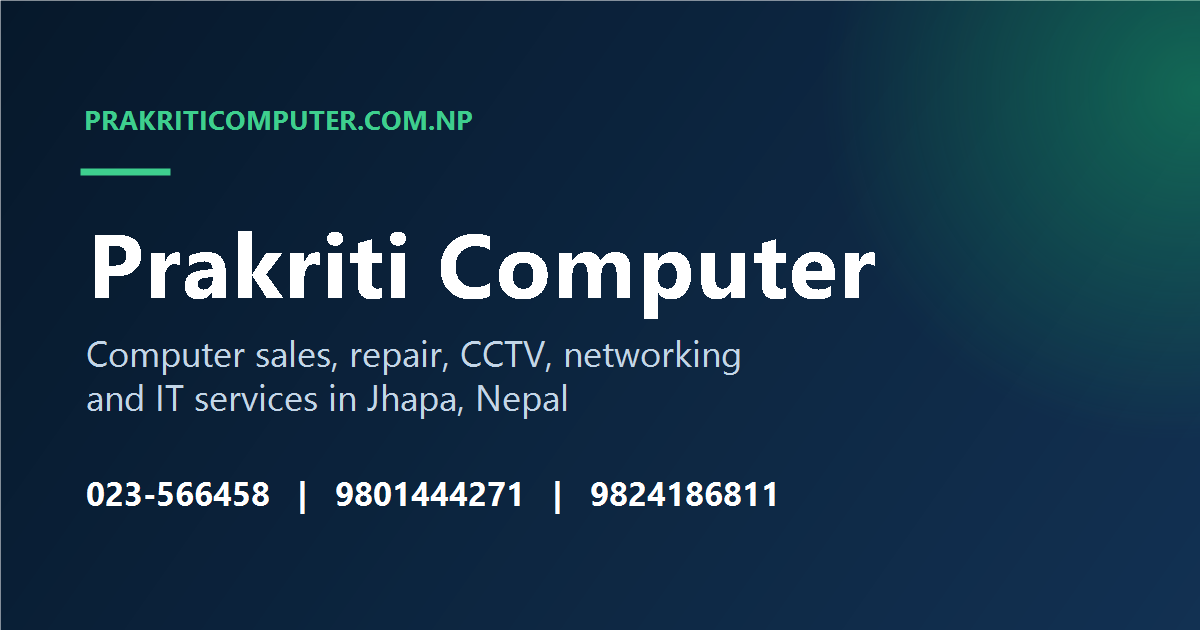
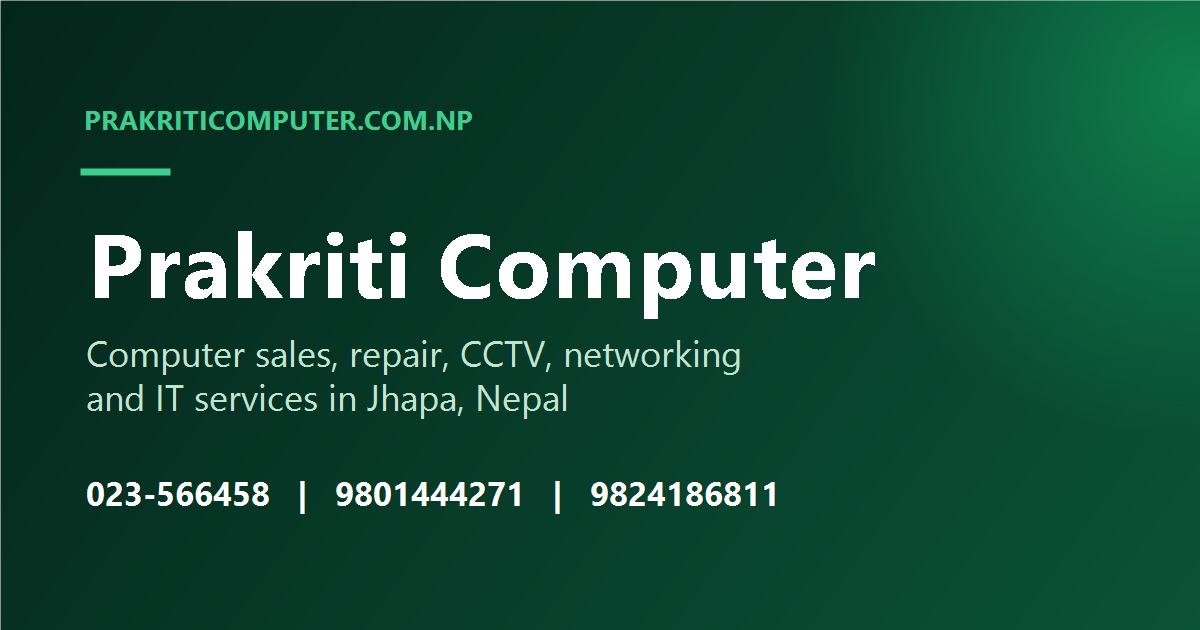
Switch the site to a green theme
"Prakriti" means nature, so the palette is now green throughout rather
than navy with green accents.

- Renamed the --navy-* scale to --forest-* and gave it deep forest
  values, so the variable names match the colours they hold. This
  recolours the hero, page headers, footer, panels and brand mark.
- Tinted the light and dark neutrals green so surfaces, borders and
  body text sit in the same family instead of reading as cold grey.
- Replaced the leftover blue radial glow in the hero with teal.
- Added --green-700 (#0b854a) as the light-theme accent. The previous
  --green-600 gave only 3.5:1 contrast against white, below the WCAG AA
  4.5:1 needed for button and link text; --green-700 reaches 4.7:1.
- Regenerated the favicon and social share image to match.

Changed region(s): [[0.4008, 0.1508, 1.0, 1.0]]

diff --git a/assets/css/style.css b/assets/css/style.css
@@ -17,36 +17,41 @@
    1. Design tokens
    -------------------------------------------------------------------------- */
 :root {
-  /* Brand palette — deep navy + "prakriti" (nature) green */
-  --navy-900: #06182b;
-  --navy-800: #0b2540;
-  --navy-700: #123152;
-  --navy-600: #1b4570;
+  /* Brand palette — "prakriti" means nature, so the whole site is green.
+     forest-*  deep greens for dark surfaces (hero, footer, panels)
+     green-*   vivid greens for accents (buttons, links, icons)
+     --green-700 is the one used for text and buttons on white: it clears
+     the WCAG AA 4.5:1 contrast ratio, which --green-600 does not. */
+  --forest-900: #04251a;
+  --forest-800: #073a28;
+  --forest-700: #0a5238;
+  --forest-600: #0e6b4a;
+  --green-700: #0b854a;
   --green-600: #0f9d58;
   --green-500: #16b364;
   --green-400: #3ecf8e;
 
   /* Semantic — light theme */
   --bg: #ffffff;
-  --bg-soft: #f5f8fb;
-  --bg-sunken: #eef3f8;
+  --bg-soft: #f3faf6;
+  --bg-sunken: #e9f4ee;
   --surface: #ffffff;
-  --surface-2: #f8fafc;
-  --border: #e2e8f0;
-  --border-strong: #cbd5e1;
-  --text: #0f2033;
-  --text-muted: #51677e;
-  --text-faint: #7b8ea5;
-  --brand: var(--navy-800);
-  --accent: var(--green-600);
-  --accent-soft: #e6f7ee;
-  --ring: rgba(15, 157, 88, 0.32);
+  --surface-2: #f7fcf9;
+  --border: #dcebe3;
+  --border-strong: #b9d8c8;
+  --text: #0c2a1e;
+  --text-muted: #4a6b5c;
+  --text-faint: #789987;
+  --brand: var(--forest-800);
+  --accent: var(--green-700);
+  --accent-soft: #e3f6ec;
+  --ring: rgba(11, 133, 74, 0.3);
 
   /* Elevation */
-  --shadow-xs: 0 1px 2px rgba(6, 24, 43, 0.06);
-  --shadow-sm: 0 2px 8px rgba(6, 24, 43, 0.07);
-  --shadow-md: 0 8px 24px rgba(6, 24, 43, 0.09);
-  --shadow-lg: 0 20px 48px rgba(6, 24, 43, 0.14);
+  --shadow-xs: 0 1px 2px rgba(4, 37, 26, 0.06);
+  --shadow-sm: 0 2px 8px rgba(4, 37, 26, 0.08);
+  --shadow-md: 0 8px 24px rgba(4, 37, 26, 0.1);
+  --shadow-lg: 0 20px 48px rgba(4, 37, 26, 0.16);
 
   /* Shape & rhythm */
   --radius-sm: 8px;
@@ -67,17 +72,17 @@
 
 /* Dark theme — set by data-theme="dark" on <html> (see assets/js/main.js) */
 [data-theme="dark"] {
-  --bg: #071624;
-  --bg-soft: #0b1f31;
-  --bg-sunken: #061421;
-  --surface: #0e2436;
-  --surface-2: #122b3f;
-  --border: #1d3b52;
-  --border-strong: #2a5070;
-  --text: #e8f1f8;
-  --text-muted: #a3bacd;
-  --text-faint: #7f99ae;
-  --brand: #0e2436;
+  --bg: #04180f;
+  --bg-soft: #072216;
+  --bg-sunken: #03140c;
+  --surface: #0a2718;
+  --surface-2: #0e3220;
+  --border: #17452e;
+  --border-strong: #235e41;
+  --text: #e6f5ec;
+  --text-muted: #a2c4b1;
+  --text-faint: #7ba38c;
+  --brand: #0a2718;
   --accent: var(--green-400);
   --accent-soft: rgba(62, 207, 142, 0.14);
   --ring: rgba(62, 207, 142, 0.38);
@@ -255,7 +260,7 @@ p { text-wrap: pretty; }
 
 .btn--light {
   --btn-bg: #fff;
-  --btn-fg: var(--navy-900);
+  --btn-fg: var(--forest-900);
   box-shadow: 0 6px 20px rgba(0, 0, 0, 0.18);
 }
 
@@ -281,7 +286,7 @@ p { text-wrap: pretty; }
    5. Header & navigation
    -------------------------------------------------------------------------- */
 .topbar {
-  background: var(--navy-900);
+  background: var(--forest-900);
   color: #cfe0ef;
   font-size: 0.82rem;
 }
@@ -353,7 +358,7 @@ p { text-wrap: pretty; }
   width: 42px; height: 42px;
   flex: none;
   border-radius: 12px;
-  background: linear-gradient(140deg, var(--navy-700), var(--navy-900));
+  background: linear-gradient(140deg, var(--forest-700), var(--forest-900));
   display: grid; place-items: center;
   color: var(--green-400);
   box-shadow: var(--shadow-sm);
@@ -451,7 +456,7 @@ p { text-wrap: pretty; }
 .hero {
   position: relative;
   isolation: isolate;
-  background: linear-gradient(155deg, var(--navy-900) 0%, var(--navy-800) 45%, var(--navy-700) 100%);
+  background: linear-gradient(155deg, var(--forest-900) 0%, var(--forest-800) 45%, var(--forest-700) 100%);
   color: #fff;
   overflow: hidden;
   padding-block: clamp(3.5rem, 8vw, 6rem) clamp(4rem, 9vw, 7rem);
@@ -471,7 +476,7 @@ p { text-wrap: pretty; }
 .hero::after {
   width: 34rem; height: 34rem;
   bottom: -18rem; left: -12rem;
-  background: radial-gradient(circle, rgba(59, 130, 246, 0.22), transparent 65%);
+  background: radial-gradient(circle, rgba(20, 184, 166, 0.2), transparent 65%);
 }
 .hero__grid {
   position: absolute;
@@ -750,7 +755,7 @@ p { text-wrap: pretty; }
 .page-head {
   position: relative;
   isolation: isolate;
-  background: linear-gradient(150deg, var(--navy-900), var(--navy-700));
+  background: linear-gradient(150deg, var(--forest-900), var(--forest-700));
   color: #fff;
   padding-block: clamp(2.75rem, 6vw, 4.5rem);
   overflow: hidden;
@@ -795,7 +800,7 @@ p { text-wrap: pretty; }
   position: relative;
   border-radius: var(--radius-lg);
   padding: clamp(1.6rem, 3.5vw, 2.5rem);
-  background: linear-gradient(150deg, var(--navy-800), var(--navy-700));
+  background: linear-gradient(150deg, var(--forest-800), var(--forest-700));
   color: #fff;
   box-shadow: var(--shadow-md);
   overflow: hidden;
@@ -1036,7 +1041,7 @@ p { text-wrap: pretty; }
   position: relative;
   isolation: isolate;
   overflow: hidden;
-  background: linear-gradient(120deg, var(--navy-900), var(--navy-700) 65%, var(--green-600) 200%);
+  background: linear-gradient(120deg, var(--forest-900), var(--forest-700) 65%, var(--green-600) 200%);
   color: #fff;
   border-radius: var(--radius-lg);
   padding: clamp(2.25rem, 5vw, 3.5rem);
@@ -1063,7 +1068,7 @@ p { text-wrap: pretty; }
    15. Footer
    -------------------------------------------------------------------------- */
 .site-footer {
-  background: var(--navy-900);
+  background: var(--forest-900);
   color: #a9c2d6;
   padding-top: clamp(3rem, 6vw, 4.5rem);
 }

diff --git a/404.html b/404.html
@@ -6,7 +6,7 @@
 <title>Page Not Found — Prakriti Computer</title>
 <meta name="description" content="The page you were looking for could not be found. Return to the Prakriti Computer homepage or call 023-566458.">
 <meta name="robots" content="noindex">
-<meta name="theme-color" content="#0b2540">
+<meta name="theme-color" content="#04251a">
 
 <link rel="icon" type="image/svg+xml" href="/assets/img/favicon.svg">
 <link rel="preconnect" href="https://fonts.googleapis.com">
@@ -33,7 +33,7 @@
     font-weight: 800;
     line-height: 1;
     letter-spacing: -0.04em;
-    background: linear-gradient(120deg, var(--navy-700), var(--accent));
+    background: linear-gradient(120deg, var(--forest-700), var(--accent));
     -webkit-background-clip: text;
     background-clip: text;
     color: transparent;

diff --git a/index.html b/index.html
@@ -7,7 +7,7 @@
 <meta name="description" content="Prakriti Computer provides computer and laptop sales, repair and servicing, printer service, CCTV installation, networking, software and online services in Jhapa, Nepal. Call 023-566458, 9801444271 or 9824186811.">
 <meta name="keywords" content="Prakriti Computer, computer shop Jhapa, laptop repair Nepal, CCTV installation Jhapa, printer repair, computer service Nepal, networking Nepal">
 <meta name="author" content="Prakriti Computer">
-<meta name="theme-color" content="#0b2540">
+<meta name="theme-color" content="#04251a">
 <link rel="canonical" href="https://prakriticomputer.com.np/">
 
 <!-- Open Graph / social sharing -->

diff --git a/services.html b/services.html
@@ -5,7 +5,7 @@
 <meta name="viewport" content="width=device-width, initial-scale=1">
 <title>Our Services — Prakriti Computer, Jhapa</title>
 <meta name="description" content="Computer and laptop sales, repair and servicing, hardware upgrades, printer service, CCTV installation, networking, software setup, data recovery, accounting software, online services, accessories and office AMC in Jhapa, Nepal.">
-<meta name="theme-color" content="#0b2540">
+<meta name="theme-color" content="#04251a">
 <link rel="canonical" href="https://prakriticomputer.com.np/services.html">
 
 <meta property="og:type" content="website">

diff --git a/contact.html b/contact.html
@@ -5,7 +5,7 @@
 <meta name="viewport" content="width=device-width, initial-scale=1">
 <title>Contact Us — Prakriti Computer, Jhapa | 023-566458</title>
 <meta name="description" content="Contact Prakriti Computer, Jhapa. Call 023-566458, 9801444271 or 9824186811, email info@prakriticomputer.com.np, or find us on Facebook, TikTok and LinkedIn. Open Sunday to Friday, 9 AM to 7 PM.">
-<meta name="theme-color" content="#0b2540">
+<meta name="theme-color" content="#04251a">
 <link rel="canonical" href="https://prakriticomputer.com.np/contact.html">
 
 <meta property="og:type" content="website">

diff --git a/about.html b/about.html
@@ -5,7 +5,7 @@
 <meta name="viewport" content="width=device-width, initial-scale=1">
 <title>About Us — Prakriti Computer, Jhapa</title>
 <meta name="description" content="Prakriti Computer is a local computer sales and service shop in Jhapa, Nepal, helping homes, students, offices and businesses with honest advice, genuine parts and dependable after-sales support.">
-<meta name="theme-color" content="#0b2540">
+<meta name="theme-color" content="#04251a">
 <link rel="canonical" href="https://prakriticomputer.com.np/about.html">
 
 <meta property="og:type" content="website">

diff --git a/README.md b/README.md
@@ -128,12 +128,25 @@ Removing `id="enquiry-form"` disables the mailto script and lets Formspree handl
 ## Editing the design
 
 All colours, spacing and fonts live as variables at the top of `assets/css/style.css`, under
-`:root`. To change the brand green everywhere, edit one line:
+`:root`. The site is green throughout, built from two scales:
 
 ```css
---green-600: #0f9d58;   /* light theme accent */
+/* Deep greens — hero, footer, page headers, panels */
+--forest-900: #04251a;
+--forest-800: #073a28;
+--forest-700: #0a5238;
+--forest-600: #0e6b4a;
+
+/* Vivid greens — buttons, links, icons, highlights */
+--green-700: #0b854a;   /* light theme accent */
+--green-600: #0f9d58;
+--green-500: #16b364;
 --green-400: #3ecf8e;   /* dark theme accent  */
 ```
+
+Change `--forest-*` to restyle the dark areas, `--green-*` for the accents. Keep `--green-700`
+as the light-theme accent if you change it: lighter greens drop below the 4.5:1 contrast ratio
+needed for white button text to stay readable.
 
 The site has a light and dark theme; the toggle is the sun/moon button in the header, and the
 visitor's choice is remembered in their browser.
